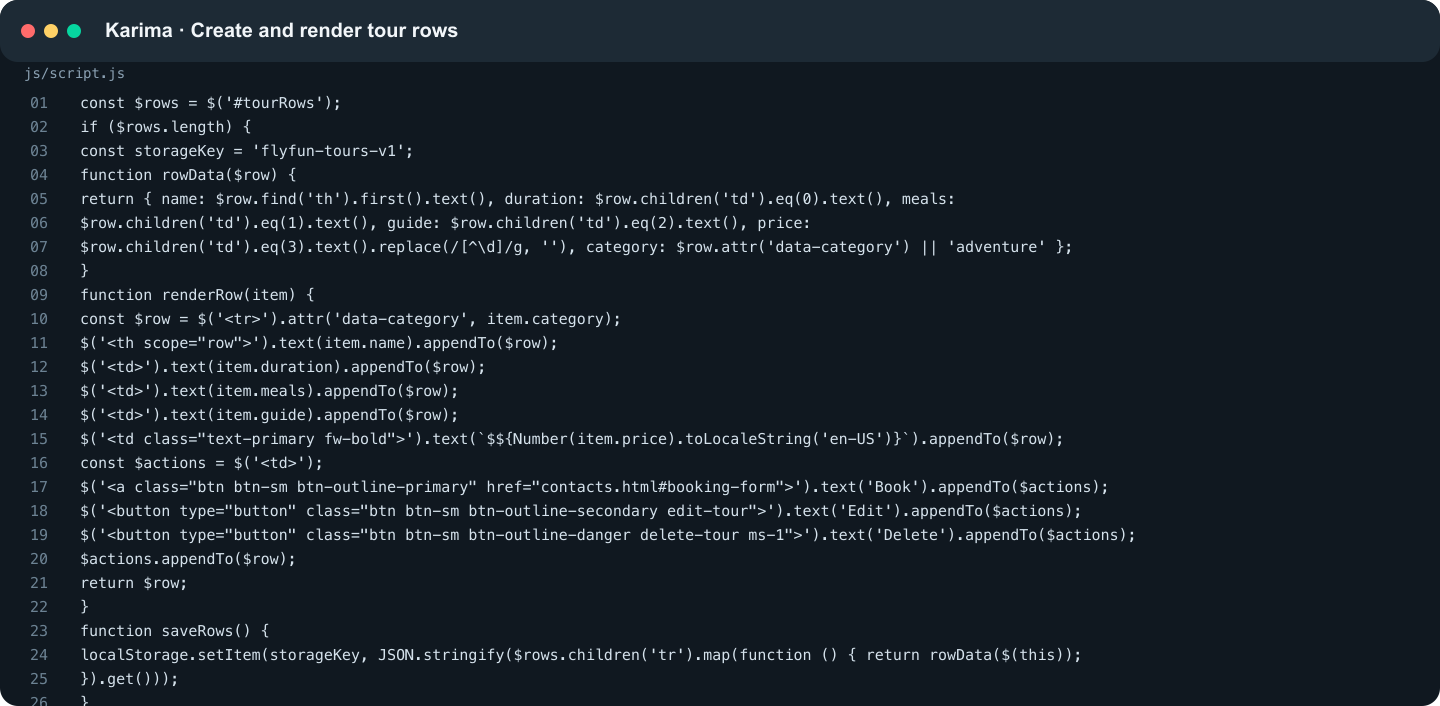
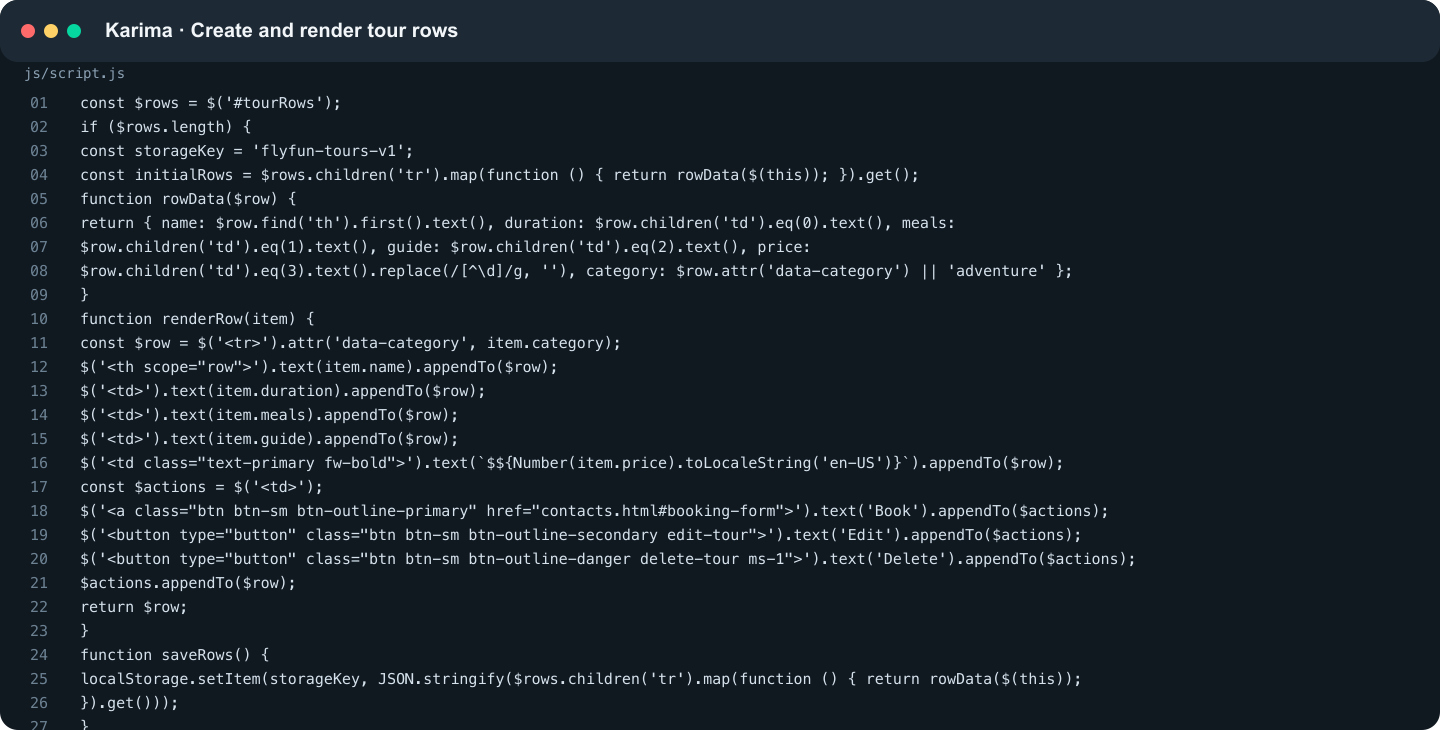
Ainaz: Added screenshots for the endterm project, including images for tour creation, search filtering, and update/delete actions. Updated the README.md to reflect these changes and modified the script.js to enhance functionality.

diff --git a/js/script.js b/js/script.js
@@ -58,6 +58,7 @@ $(function () {
     const $rows = $('#tourRows');
     if ($rows.length) {
         const storageKey = 'flyfun-tours-v1';
+        const initialRows = $rows.children('tr').map(function () { return rowData($(this)); }).get();
         function rowData($row) {
             return { name: $row.find('th').first().text(), duration: $row.children('td').eq(0).text(), meals: $row.children('td').eq(1).text(), guide: $row.children('td').eq(2).text(), price: $row.children('td').eq(3).text().replace(/[^\d]/g, ''), category: $row.attr('data-category') || 'adventure' };
         }
@@ -92,11 +93,14 @@ $(function () {
         }
         try {
             const saved = localStorage.getItem(storageKey);
-            if (saved !== null) {
-                $rows.empty();
-                JSON.parse(saved).forEach(item => $rows.append(renderRow(item)));
-            }
-        } catch (_) { localStorage.removeItem(storageKey); }
+            const items = saved === null ? initialRows : JSON.parse(saved);
+            $rows.empty();
+            items.forEach(item => $rows.append(renderRow(item)));
+        } catch (_) {
+            localStorage.removeItem(storageKey);
+            $rows.empty();
+            initialRows.forEach(item => $rows.append(renderRow(item)));
+        }
 
         $('#tourSearch').on('input', applyFilters);
         $('#tourFilters').on('click', 'button', function () {
@@ -116,11 +120,26 @@ $(function () {
         $rows.on('click', '.edit-tour', function () {
             const $row = $(this).closest('tr');
             const item = rowData($row);
-            const name = prompt('Package name:', item.name);
-            if (name === null || !name.trim()) return;
-            const price = prompt('Price in USD:', item.price);
-            if (price === null || !/^\d+$/.test(price) || Number(price) < 1) return;
-            item.name = name.trim(); item.price = price;
+            const fields = [
+                ['Package name', 'name'], ['Duration', 'duration'],
+                ['Meals included', 'meals'], ['Guide service', 'guide'],
+                ['Price in USD', 'price']
+            ];
+            for (const [label, key] of fields) {
+                const value = prompt(`${label}:`, item[key]);
+                if (value === null || !value.trim()) return;
+                item[key] = value.trim();
+            }
+            if (!/^\d+$/.test(item.price) || Number(item.price) < 1) {
+                alert('Enter a valid positive price.');
+                return;
+            }
+            const category = prompt('Category: beach, adventure, or culture', item.category);
+            if (category === null || !['beach', 'adventure', 'culture'].includes(category.trim().toLowerCase())) {
+                alert('Choose beach, adventure, or culture.');
+                return;
+            }
+            item.category = category.trim().toLowerCase();
             $row.replaceWith(renderRow(item)); saveRows(); applyFilters();
         });
         $rows.on('click', '.delete-tour', function () {

diff --git a/README.md b/README.md
@@ -193,4 +193,4 @@ Original page screenshots: [Gallery page](screenshots/site/gallery.jpg) and [Mob
 - Updated repository: [Jkooked/midterm_web](https://github.com/Jkooked/midterm_web)
 - Published website: [FLY FUN on GitHub Pages](https://jkooked.github.io/midterm_web/)
 
-The local endterm changes must be pushed to the existing repository before the published website reflects this update.
+The Endterm update is committed to the existing repository. Open the published website link above to view the deployed version; GitHub Pages may take a short time to reflect the latest commit.
